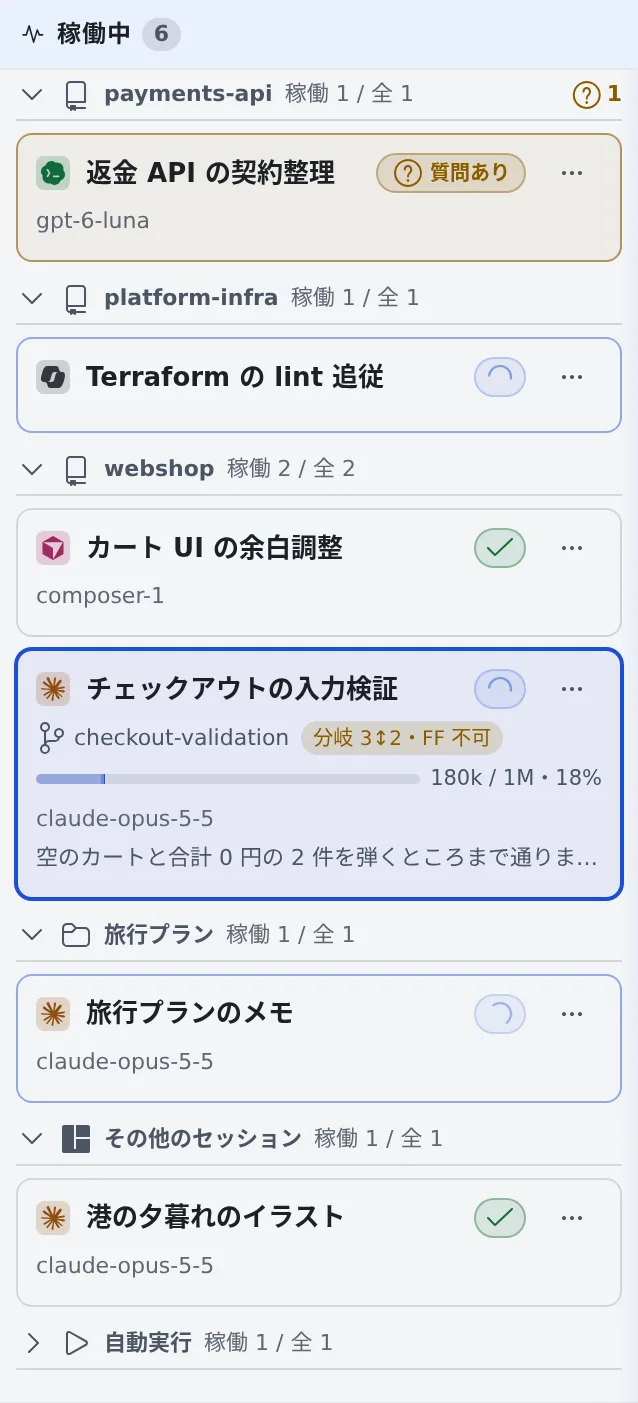
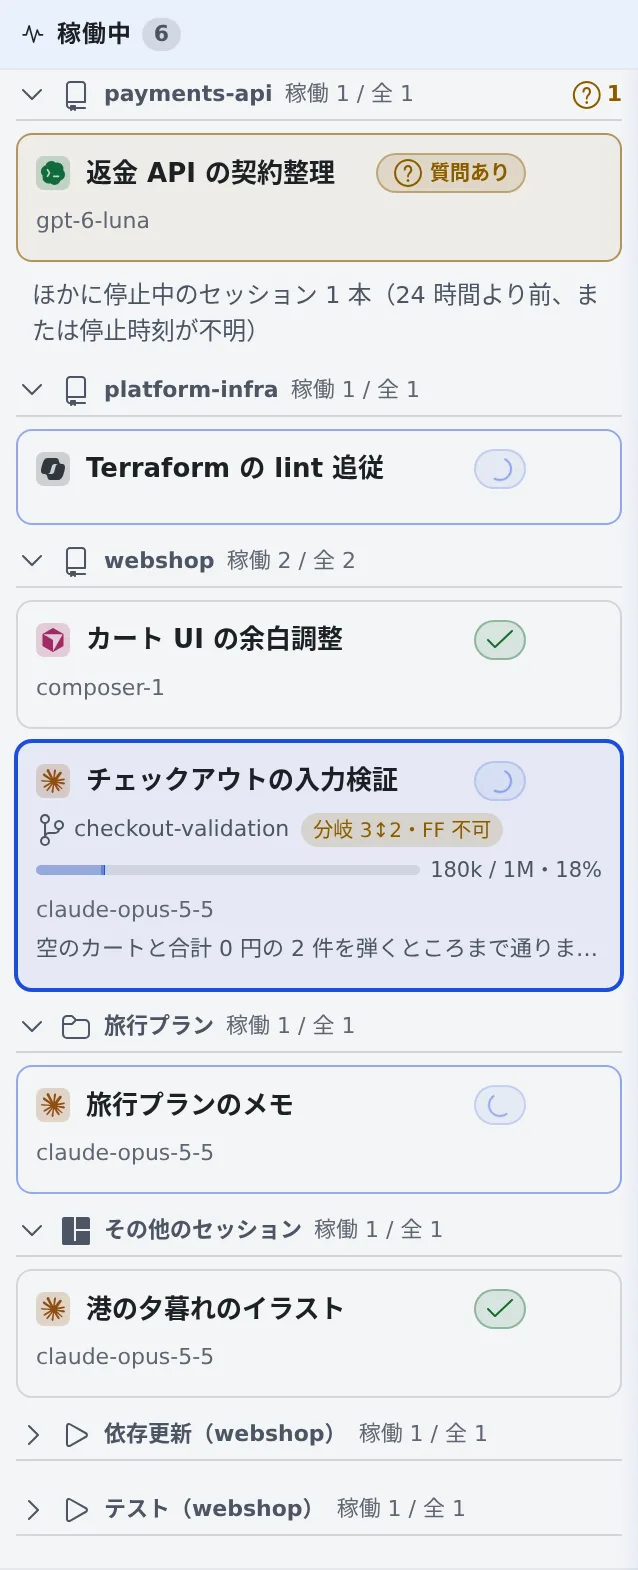
feat(console): group Active sessions by auto-run queue
Active grouped every unattended memo run under one heading, hiding
which category owned each run. Resolve the queue root through the
existing unattended lineage, key each group by category ID, and read
names and positions from the shared queue settings. Keep the generic
heading for legacy runs and preserve independent group folds.

Verified with Active node and DOM tests, a root-attribution mutation,
the queue settings API test, wire goldens, a production Console build,
and English and Japanese guide captures in headless Chromium.

Refs #5286

diff --git a/console/src/features/active/active.ts b/console/src/features/active/active.ts
@@ -11,9 +11,8 @@
 //            SSM logins are the Terminal view's; unattended runs are listed in the trailing groups
 //            (unattendedScope).
 //   GROUP  … the tree's three sections in the tree's order: repositories (by remote, as the
-//            sessions overview groups them), spaces, other. Two groups follow them: the RUNNING
-//            unattended runs, one group for auto-run and one for schedules, as families like the
-//            others (decision 2 note). They are not in the scope above: see unattendedScope.
+//            sessions overview groups them), spaces, other. Running unattended families follow,
+//            by queue category for auto-run and in one group for schedules (unattendedScope).
 //   FOLD   … a parent hides its descendants until the member opens it. The stored value is
 //            the OPENED parents, not the folded ones: a parent that gains its first child
 //            must start folded without anybody having recorded it.
@@ -21,17 +20,18 @@ import { childrenIndex, descendantNames } from "../sessions/family.ts";
 import { isWaiting } from "../sessions/waiting.ts";
 import { foldFamilies, orderByFamily, repoGroupId } from "../overview/overview.ts";
 import type { FoldInfo } from "../overview/overview.ts";
-import { sessionAutoKind, sessionFolder, sessionSpace, withoutTerminals, withoutUnattended } from "../../lib/project.ts";
+import { sessionAutoKind, sessionAutoRoot, sessionFolder, sessionSpace, withoutTerminals, withoutUnattended } from "../../lib/project.ts";
 import { sessionInWorkingSet } from "../../lib/workingSets.ts";
 import { compareText } from "../../lib/intl.ts";
 import type { Space } from "../spaces/store.ts";
 import type { Repo } from "../repos/store.ts";
 import type { WorkingSet } from "../../lib/workingSets.ts";
+import type { MemoQueue } from "../../types/memo.ts";
 import type { Session } from "../../types/session.ts";
 
 export type ActiveGroupKind = "repo" | "space" | "other" | "autorun" | "schedule";
 
-/** The two groups of unattended runs: folded until the member opens them, and their waiting
+/** The groups of unattended runs: folded until the member opens them, and their waiting
  *  sessions are not counted on the rail icon (waitingSessions leaves unattended runs out). */
 export const isUnattendedKind = (k: ActiveGroupKind): boolean => k === "autorun" || k === "schedule";
 
@@ -43,9 +43,9 @@ export interface ActiveGroup {
   /** Identity and React key. Never empty: "o:" is the trailing "other" group. */
   key: string;
   kind: ActiveGroupKind;
-  /** Heading text. "" for the "other" group and the two unattended ones — the view localizes those. */
+  /** Heading text or queue name. Empty when the view supplies the whole heading. */
   label: string;
-  /** Tooltip: what the group was formed on (the remote, the base folder, the space folder). */
+  /** Tooltip context for an ordinary group, or the repository name for a queue heading. */
   hint: string;
   /** Cards in order, after the fold has taken its rows out. */
   sessions: Session[];
@@ -234,6 +234,8 @@ function groupId(s: Session, byFolder: Map<string, Repo>, spaces: Space[], repos
   return { key: OTHER_GROUP, kind: "other", label: "", hint: "" };
 }
 
+type QueueHeading = Pick<MemoQueue, "categoryId" | "category" | "repo" | "categoryPosition">;
+
 const KIND_ORDER: Record<ActiveGroupKind, number> = { repo: 0, space: 1, other: 2, autorun: 3, schedule: 4 };
 
 /** The view, grouped. `expanded` holds the parents the member opened; set=null means no
@@ -247,6 +249,7 @@ export function activeGroups(
   shown?: ReadonlySet<string>,
   reposKnown = repos.length > 0,
   now: number = Date.now(),
+  queues: readonly QueueHeading[] = [],
 ): ActiveGroup[] {
   const byFolder = new Map(repos.map((r) => [r.name, r]));
   const members = new Map<string, { id: GroupId; sessions: Session[] }>();
@@ -257,10 +260,19 @@ export function activeGroups(
     members.set(id.key, g);
   }
   const allByName = new Map(sessions.map((s) => [s.name, s] as const));
+  const queueOrder = new Map([...queues].sort((a, b) =>
+    compareText(a.repo, b.repo) ||
+    (a.categoryPosition ?? Infinity) - (b.categoryPosition ?? Infinity) ||
+    compareText(a.categoryId, b.categoryId),
+  ).map((q, i) => [AUTORUN_GROUP + ":" + q.categoryId, { q, i }]));
   for (const s of unattendedScope(sessions, set, shown, repos)) {
-    const auto = sessionAutoKind(s, allByName, shown);
-    if (!auto) continue;
-    const id: GroupId = { key: auto === "autorun" ? AUTORUN_GROUP : SCHEDULE_GROUP, kind: auto === "autorun" ? "autorun" : "schedule", label: "", hint: "" };
+    const root = sessionAutoRoot(s, allByName, shown);
+    if (!root) continue;
+    const autorun = root.origin === "queue";
+    const category = autorun ? root.queueCategoryId : undefined;
+    const key = autorun ? (category ? AUTORUN_GROUP + ":" + category : AUTORUN_GROUP) : SCHEDULE_GROUP;
+    const q = queueOrder.get(key)?.q;
+    const id: GroupId = { key, kind: autorun ? "autorun" : "schedule", label: q?.category || category || "", hint: q?.repo || "" };
     const g = members.get(id.key) || { id, sessions: [] };
     g.sessions.push(s);
     members.set(id.key, g);
@@ -318,6 +330,8 @@ export function activeGroups(
   }
   // Headings in name order inside each kind, stable while sessions come and go: a list that
   // is watched must not reorder its sections every time something starts.
-  out.sort((a, b) => KIND_ORDER[a.kind] - KIND_ORDER[b.kind] || compareText(a.label, b.label) || compareText(a.key, b.key));
+  out.sort((a, b) => KIND_ORDER[a.kind] - KIND_ORDER[b.kind] ||
+    (queueOrder.get(a.key)?.i ?? Infinity) - (queueOrder.get(b.key)?.i ?? Infinity) ||
+    compareText(a.label, b.label) || compareText(a.key, b.key));
   return out;
 }

diff --git a/console/src/features/active/ActiveSection.tsx b/console/src/features/active/ActiveSection.tsx
@@ -22,6 +22,8 @@ import { useSessionActions } from "../sessions/useSessionActions.tsx";
 import { useNotificationStore } from "../notifications/store.ts";
 import { waitingAtFromNotifications } from "../sessions/order.ts";
 import { observedWaitingAt } from "../sessions/waiting.ts";
+import { useTenantStore } from "../../core/store/tenant.ts";
+import { useQueueSettings } from "../memo/queueSettingsCache.ts";
 import { useShownSchedules } from "../schedules/store.ts";
 import { spacesFor, spacesOwner, useSpacesStore } from "../spaces/store.ts";
 import { SessionCard } from "../overview/SessionCard.tsx";
@@ -68,6 +70,9 @@ export const ActiveSection = memo(function ActiveSection() {
   const spaces = useSpacesStore((s) => spacesFor(s, owner));
   const wset = useActiveWorkingSet();
   const shownSchedules = useShownSchedules();
+  const tenant = useTenantStore((s) => s.tenant);
+  const identity = useTenantStore((s) => s.identityRev);
+  const { queues } = useQueueSettings((tenant ?? "") + "\u0000" + identity);
   // Derived from the layout here rather than through useRepoRailContext, which also reads
   // the connections and the launch catalogue: a card launches nothing.
   const running = useWorkspaceStore((s) => s.state) === "running";
@@ -80,18 +85,24 @@ export const ActiveSection = memo(function ActiveSection() {
   const [openedGroups, toggleOpened] = useActiveOpenedGroups();
   const foldedSet = useMemo(() => new Set(foldedGroups), [foldedGroups]);
   const openedSet = useMemo(() => new Set(openedGroups), [openedGroups]);
-  // Ordinary groups start open and store the folded ones; the unattended two start folded and store the opened ones.
+  // Ordinary groups start open and store the folded ones; unattended groups start folded and store the opened ones.
   const isFolded = (g: ActiveGroup) => (isUnattendedKind(g.kind) ? !openedSet.has(g.key) : foldedSet.has(g.key));
-  const groupName = (g: ActiveGroup) => (g.kind === "other" ? tr("pj.other_sessions") : g.kind === "autorun" ? tr("memo.autorun") : g.kind === "schedule" ? tr("sched.title") : g.label);
+  const groupName = (g: ActiveGroup) => {
+    if (g.kind === "other") return tr("pj.other_sessions");
+    if (g.kind === "schedule") return tr("sched.title");
+    if (g.kind !== "autorun") return g.label;
+    if (g.hint) return tr("active.queue_group", { category: g.label, repo: g.hint });
+    return g.label || tr("memo.autorun");
+  };
   // Headings are sorted with the locale's collation, so the order is the locale's too.
   const locale = useLocale();
 
   const now = useNow(60_000);
   const expandedSet = useMemo(() => new Set(expanded), [expanded]);
   const groups = useMemo(
-    () => activeGroups(sessions, repos, spaces, wset, expandedSet, shownSchedules, reposLoaded, now),
+    () => activeGroups(sessions, repos, spaces, wset, expandedSet, shownSchedules, reposLoaded, now, queues),
     // `locale` is not named in the body: compareText reads it.
-    [sessions, repos, spaces, wset, expandedSet, shownSchedules, reposLoaded, now, locale],
+    [sessions, repos, spaces, wset, expandedSet, shownSchedules, reposLoaded, now, queues, locale],
   );
   // The unattended groups are left out of the section's count: it says how many sessions of
   // the member's own are running, and a queue's runs would bury it.
@@ -110,7 +121,7 @@ export const ActiveSection = memo(function ActiveSection() {
         <div className="act-list">
           {groups.map((g) => (
             <section className="act-group" key={g.key} data-active-group={g.key}>
-              <h3 className="ovw-gtitle act-gtitle" title={g.hint || undefined}>
+              <h3 className="ovw-gtitle act-gtitle" title={(g.kind === "autorun" ? groupName(g) : g.hint) || undefined}>
                 {/* The heading is a disclosure button: Enter / Space fold it, and a screen reader says which way it is. */}
                 <button type="button" className="act-gfold" aria-expanded={!isFolded(g)}
                   aria-label={[groupName(g), tr("ovw.group_count", { alive: g.alive, n: g.total }), g.waiting > 0 ? tCount("active.group_waiting_hint", g.waiting) : ""].filter(Boolean).join(", ")}

diff --git a/console/src/features/active/ActiveSection.dom.test.tsx b/console/src/features/active/ActiveSection.dom.test.tsx
@@ -27,6 +27,8 @@ const { ACTIVE_EXPANDED_KEY, ACTIVE_EXPANDED_MAX, ACTIVE_GROUPS_FOLDED_KEY, ACTI
 const { readFoldValue, setFoldScope, writeFoldValue } = await import("../../lib/foldStore.ts");
 const { useLayoutStore } = await import("../../layout/store.ts");
 const { waitingSessions, sessionBadges } = await import("../../app/activity/badges.ts");
+const { queueScope, useQueueSettingsCache } = await import("../memo/queueSettingsCache.ts");
+const { readMemoQueues } = await import("../memo/queues.ts");
 const { useSchedulesStore } = await import("../schedules/store.ts");
 const { ToastProvider } = await import("../../ui/ToastProvider.tsx");
 const { ConfirmProvider } = await import("../../ui/ConfirmProvider.tsx");
@@ -64,6 +66,7 @@ const cards = () => [...host.querySelectorAll<HTMLElement>(".ovw-card")].map((e)
 
 beforeEach(() => {
   localStorage.clear();
+  useQueueSettingsCache.getState().reset();
   api.mockClear();
   setSettings({ workingSets: [], workingSetActive: "" });
   // The default state is unsettled ("…"): each test says what it needs.
@@ -324,6 +327,31 @@ describe("ActiveSection", () => {
       expect(headBtn("u:autorun").getAttribute("aria-expanded")).toBe("false");
       await act(async () => setFoldScope({ tenant: "t1" }));
       expect(headBtn("u:autorun").getAttribute("aria-expanded")).toBe("true");
+    });
+
+    it("labels each queue and remembers its fold independently as metadata loads", async () => {
+      const runs = [
+        sess("run-a", { origin: "queue", queueCategoryId: "a" }),
+        sess("review-a", { origin: "session", originSession: "run-a" }),
+        sess("run-b", { origin: "queue", queueCategoryId: "b" }),
+      ];
+      await render(runs);
+      expect(headBtn("u:autorun:a").getAttribute("aria-expanded")).toBe("false");
+      expect(headBtn("u:autorun:b").getAttribute("aria-expanded")).toBe("false");
+      await act(async () => headBtn("u:autorun:a").click());
+      const cache = useQueueSettingsCache.getState();
+      await act(async () => cache.publish(queueScope(), cache.begin(), readMemoQueues({
+        queues: [
+          { categoryId: "a", category: "Reviews", repo: "app", categoryPosition: 2 },
+          { categoryId: "b", category: "Builds", repo: "app", categoryPosition: 1 },
+        ],
+      })!));
+      expect(heads()).toEqual(["Builds (app)", "Reviews (app)"]);
+      expect(headBtn("u:autorun:a").getAttribute("aria-label")).toBe("Reviews (app), 2 running / 2 total");
+      expect(headBtn("u:autorun:a").getAttribute("aria-expanded")).toBe("true");
+      expect(headBtn("u:autorun:b").getAttribute("aria-expanded")).toBe("false");
+      expect(cards()).toEqual(["run-a"]);
+      expect(JSON.parse(readFoldValue(ACTIVE_GROUPS_OPENED_KEY) || "[]")).toEqual(["u:autorun:a"]);
     });
 
     it("Schedules folds, opens and is stored like Auto-run, and a shown schedule worktree child is listed once", async () => {

diff --git a/console/src/lib/project.ts b/console/src/lib/project.ts
@@ -392,33 +392,37 @@ export function lineageNodes(n: RepoTreeNode): RepoTreeNode[] {
   return n.detached && n.detached.length > 0 ? [...childNodes(n), ...n.detached] : childNodes(n);
 }
 
-// sessionAutoKind — which unattended source raised a session, "" = the member's own.
+// sessionAutoRoot — the unattended run that raised a session, if any.
 //
 // origin queue / schedule is the run itself. A child the run spawned (origin "session")
 // follows ONLY origin=session edges up to the first session that is not one: a handoff
 // the member launched from a run keeps origin=user while carrying originSession, so it
 // ends the walk as "the member's" and everything it spawns stays visible. A missing
-// parent or a cycle answers "" (ordinary display), never a guess.
+// parent or a cycle also keeps the session in ordinary display.
 //
 // `shown` holds the ids of schedules the member set to also show in the Sessions view: a session
-// that run's root started and that has its own worktree is then the member's own (""). The root
+// that run's root started and that has its own worktree is then the member's own. The root
 // itself and a child without a worktree stay the Schedules view's; a root with no id, or whose
 // schedule is not in `shown` (gone, not loaded), keeps the default.
-export function sessionAutoKind(s: Session | undefined, byName: Map<string, Session>, shown?: ReadonlySet<string>): AutoKind | "" {
+export function sessionAutoRoot(s: Session | undefined, byName: Map<string, Session>, shown?: ReadonlySet<string>): Session | undefined {
   const seen = new Set<string>();
   let cur = s;
   while (cur) {
-    if (seen.has(cur.name)) return "";
+    if (seen.has(cur.name)) return undefined;
     seen.add(cur.name);
-    if (cur.origin === "queue") return "autorun";
+    if (cur.origin === "queue") return cur;
     if (cur.origin === "schedule") {
-      if (shown && cur !== s && s?.worktree === true && !!cur.scheduleId && shown.has(cur.scheduleId)) return "";
-      return "schedule";
+      if (shown && cur !== s && s?.worktree === true && !!cur.scheduleId && shown.has(cur.scheduleId)) return undefined;
+      return cur;
     }
-    if (cur.origin !== "session") return "";
+    if (cur.origin !== "session") return undefined;
     cur = cur.originSession ? byName.get(cur.originSession) : undefined;
   }
-  return "";
+}
+
+export function sessionAutoKind(s: Session | undefined, byName: Map<string, Session>, shown?: ReadonlySet<string>): AutoKind | "" {
+  const root = sessionAutoRoot(s, byName, shown);
+  return root ? (root.origin === "queue" ? "autorun" : "schedule") : "";
 }
 
 /** Sessions the member's own views list: everything except an unattended run and the sessions it

diff --git a/console/src/features/active/active.test.ts b/console/src/features/active/active.test.ts
@@ -297,6 +297,30 @@ describe("unattended groups", () => {
     expect(g[1].alive).toBe(1);
   });
 
+  it("groups by root category and orders headings by category position", () => {
+    const queued = [
+      ...list,
+      s("first", { origin: "queue", queueCategoryId: "first", alive: false }),
+      s("helper", { origin: "session", originSession: "first", queueCategoryId: "second" }),
+      s("reviewer", { origin: "session", originSession: "helper", alive: false }),
+      s("second", { origin: "queue", queueCategoryId: "second" }),
+      s("unknown", { origin: "queue", queueCategoryId: "deleted" }),
+    ];
+    const queues = [
+      { categoryId: "second", category: "Alpha", repo: "app", categoryPosition: 2 },
+      { categoryId: "first", category: "Zulu", repo: "app", categoryPosition: 1 },
+    ];
+    const g = activeGroups(queued, repos, [], null, new Set(["helper"]), undefined, true, 0, queues);
+    expect(g.map((x) => x.key).slice(1)).toEqual([
+      "u:autorun:first", "u:autorun:second", "u:autorun", "u:autorun:deleted", "u:schedule",
+    ]);
+    expect(g[1]).toMatchObject({ label: "Zulu", hint: "app", total: 2, alive: 1 });
+    expect(names(g[1].sessions)).toEqual(["helper", "reviewer"]);
+    expect(names(g[2].sessions)).toEqual(["second"]);
+    expect(names(g[3].sessions)).toEqual(["run"]);
+    expect(names(g[4].sessions)).toEqual(["unknown"]);
+  });
+
   it("does not list a schedule's worktree child twice when its schedule shows in Sessions", () => {
     const shown = new Set(["sc1"]);
     const g = activeGroups(list, repos, [], null, new Set(), shown);

diff --git a/console/src/lib/i18n/locales/ja/common.ts b/console/src/lib/i18n/locales/ja/common.ts
@@ -382,6 +382,7 @@ export const common = {
   "active.empty_in_set": "作業グループ「{set}」に稼働中のセッションはありません。",
   "active.hidden_waiting_hint_one": "畳んだ子セッションのうち {count} 本があなたの回答を待っています",
   "active.hidden_waiting_hint_other": "畳んだ子セッションのうち {count} 本があなたの回答を待っています",
+  "active.queue_group": "{category}（{repo}）",
   "active.group_waiting_hint_one": "このグループの {count} 本があなたの回答を待っています",
   "active.group_waiting_hint_other": "このグループの {count} 本があなたの回答を待っています",
   "active.older_stopped_one": "ほかに停止中のセッション {count} 本（24 時間より前、または停止時刻が不明）",

diff --git a/console/src/lib/i18n/locales/en/common.ts b/console/src/lib/i18n/locales/en/common.ts
@@ -380,6 +380,7 @@ export const common: Record<keyof typeof jaCommon, string> = {
   "active.empty_in_set": "Nothing is running in the working set \"{set}\".",
   "active.hidden_waiting_hint_one": "{count} folded child session is waiting for your answer",
   "active.hidden_waiting_hint_other": "{count} folded child sessions are waiting for your answer",
+  "active.queue_group": "{category} ({repo})",
   "active.group_waiting_hint_one": "{count} session in this group is waiting for your answer",
   "active.group_waiting_hint_other": "{count} sessions in this group are waiting for your answer",
   "active.older_stopped_one": "{count} more stopped session not shown (older than 24 hours, or no stop time)",

diff --git a/console/src/features/memo/queues.ts b/console/src/features/memo/queues.ts
@@ -116,6 +116,7 @@ export function readQueue(v: unknown): MemoQueue | null {
     categoryId: v.categoryId,
     repo: str(v.repo),
     category: str(v.category),
+    categoryPosition: typeof v.categoryPosition === "number" && Number.isFinite(v.categoryPosition) ? v.categoryPosition : undefined,
     instruction: str(v.instruction),
     agentKind: str(v.agentKind),
     model: str(v.model),

diff --git a/console/src/types/memo.ts b/console/src/types/memo.ts
@@ -189,6 +189,7 @@ export interface MemoQueue {
   categoryId: string;
   repo: string;
   category: string;
+  categoryPosition?: number;
   instruction: string;
   agentKind: string;
   model: string;

diff --git a/control-plane/memo_queue.go b/control-plane/memo_queue.go
@@ -360,16 +360,17 @@ func clipProducer(s string) string {
 // memoQueueDTO is a queue's settings on the wire. Repo and category name the category row it
 // belongs to, for display.
 type memoQueueDTO struct {
-	CategoryID  string  `json:"categoryId"`
-	Repo        string  `json:"repo"`
-	Category    string  `json:"category"`
-	Instruction string  `json:"instruction"`
-	AgentKind   string  `json:"agentKind"`
-	Model       string  `json:"model"`
-	Effort      string  `json:"effort"`
-	Route       string  `json:"route"`
-	SpendCapUSD float64 `json:"spendCapUsd"`
-	Worktree    bool    `json:"worktree"`
+	CategoryID       string  `json:"categoryId"`
+	Repo             string  `json:"repo"`
+	Category         string  `json:"category"`
+	CategoryPosition int     `json:"categoryPosition"`
+	Instruction      string  `json:"instruction"`
+	AgentKind        string  `json:"agentKind"`
+	Model            string  `json:"model"`
+	Effort           string  `json:"effort"`
+	Route            string  `json:"route"`
+	SpendCapUSD      float64 `json:"spendCapUsd"`
+	Worktree         bool    `json:"worktree"`
 	// AcceptOwnSessions is the switch "accept from sessions I started": a message from a session
 	// the member started enters without a release. Off by default.
 	AcceptOwnSessions bool `json:"acceptOwnSessions"`
@@ -421,7 +422,7 @@ type memoQueueDTO struct {
 }
 
 func memoQueueToDTO(q store.MemoQueue, c store.MemoCategory) memoQueueDTO {
-	return memoQueueDTO{CategoryID: q.CategoryID, Repo: c.Repo, Category: c.Name, Instruction: q.Instruction,
+	return memoQueueDTO{CategoryID: q.CategoryID, Repo: c.Repo, Category: c.Name, CategoryPosition: c.Position, Instruction: q.Instruction,
 		AgentKind: q.AgentKind, Model: q.Model, Effort: q.Effort, Route: q.Route, SpendCapUSD: q.SpendCapUSD,
 		Worktree: q.Worktree, AcceptOwnSessions: q.AcceptOwnSessions, ContinuationMax: memoContinuationMax(q), MaxActive: q.MaxActive, Batch: q.Batch, MaxTaskHours: memoQueueTaskHours(q),
 		OpenCron: q.OpenCron, OpenMinutes: q.OpenMinutes, TZ: q.TZ, OpenAfter: q.OpenAfter, MaxFiresPerDay: memoQueueFiresPerDay(q),

diff --git a/control-plane/memo_queue_test.go b/control-plane/memo_queue_test.go
@@ -304,8 +304,11 @@ func TestMemoQueueSettings(t *testing.T) {
 		if r.Code != 200 || !got.Enabled || got.MaxActive != 6 || got.Batch != 20 || got.Worktree || got.AgentKind != "codex" || got.SpendCapUSD != 5 {
 			t.Fatalf("update: %d %s", r.Code, r.Body.String())
 		}
+		if r := e.do("a", "PATCH", "/api/memo-categories/"+cat, map[string]any{"position": 4}); r.Code != 200 {
+			t.Fatalf("reorder category: %d %s", r.Code, r.Body.String())
+		}
 		list := decode[memoQueuesWire](t, e.do("a", "GET", "/api/memo-queues", nil)).Queues
-		if len(list) != 1 || list[0].CategoryID != cat || !list[0].Enabled {
+		if len(list) != 1 || list[0].CategoryID != cat || list[0].CategoryPosition != 4 || !list[0].Enabled {
 			t.Fatalf("list: %+v", list)
 		}
 		if l := decode[memoQueuesWire](t, e.do("c", "GET", "/api/memo-queues", nil)).Queues; len(l) != 0 {

diff --git a/guide/user/fleet/overview.ja.md b/guide/user/fleet/overview.ja.md
@@ -79,12 +79,12 @@ source_of_truth: "Console のセッション一覧ペイン"
 アクティビティバーの「**稼働中**」は、同じカードを左ペインに並べます。メイン領域のペインは使いません。
 稼働中のセッション、最近止まったセッション、あなたの対応がまだ要るセッションを並べます。
 
-![左ペインの「稼働中」ビュー。payments-api・platform-infra・webshop・スペース「旅行プラン」・「その他のセッション」の見出しの下にカードが並び、いちばん下に畳まれた「自動実行」の見出しがある。カードにはタイトルと状態、開いているセッションにはブランチとコンテキストのゲージが出ている](../../assets/active-view-ja-light.webp)
+![左ペインの「稼働中」ビュー。payments-api・platform-infra・webshop・スペース「旅行プラン」・「その他のセッション」の見出しの下にカードが並び、いちばん下に自動実行キューの見出しが 2 つあり、どちらも畳まれている。カードにはタイトルと状態、開いているセッションにはブランチとコンテキストのゲージが出ている](../../assets/active-view-ja-light.webp)
 
 | 見えるもの | 意味 |
 |---|---|
-| 見出し | リポジトリ、スペース、「その他のセッション」の順で、最後に「**自動実行**」と「**スケジュール**」（下）。並べるセッションがあるあいだだけ出ます。どの見出しも押して畳めて、畳んだ状態はこのブラウザが覚えます。畳んだ見出しには、全体のうち稼働中の本数と、そのうち回答を待っている本数が出ます |
-| 「**自動実行**」「**スケジュール**」 | 稼働中の無人の実行と、それが始めたセッションを、ひとまとまりで並べます。その実行が動いているあいだだけ出て、既定では畳まれています。「**自動実行**」はメモの自動実行、「**スケジュール**」はスケジュールの実行です |
+| 見出し | リポジトリ、スペース、「その他のセッション」の順で、最後に自動実行キューと「**スケジュール**」（下）。並べるセッションがあるあいだだけ出ます。どの見出しも押して畳めて、畳んだ状態はこのブラウザが覚えます。畳んだ見出しには、全体のうち稼働中の本数と、そのうち回答を待っている本数が出ます |
+| 自動実行キューと「**スケジュール**」 | 稼働中の無人の実行と、その子セッションが並びます。メモの自動実行はキューごとに見出しが付き、リポジトリ名（設定されている場合）とカテゴリ名が出ます。同じリポジトリ内ではカテゴリの順に並びます。レビューや補助のセッションも親の実行と同じ見出しに出ます。カテゴリが記録されていない以前の実行は「**自動実行**」、スケジュールの実行は「**スケジュール**」にまとまります。どの見出しも最初は畳まれています |
 | カード | 稼働中のセッション、過去 24 時間以内に止まったセッション、質問・プラン・権限確認への返答や引き継ぎの受け取りを待つ停止中のセッションです。対応待ちのものは止まった時刻にかかわらず並びます。並んだセッションの子も、停止中のものを含めて並びます。親と見出しが同じなら親の下に、別のリポジトリやスペースにあるならそちらの見出しに出ます |
 | 親のカード | 同じ見出しにある子セッションを畳んだ状態で始まります。「＋N」は隠している本数、疑問符の付いた数はそのうち稼働中であなたの回答を待っている本数です。左端の矢印で開閉でき、開いた親はこのブラウザが覚えます |
 | ペイン番号 | 画面を分割しているあいだ、そのセッションを出しているペインの番号。押すとそのペインに移ります |
@@ -93,7 +93,7 @@ source_of_truth: "Console のセッション一覧ペイン"
 - 見出しを開くと、24 時間より前に止まったか、停止時刻が不明でカードに出ていないセッションの数が、カードの下に出ます。それらは「**セッション**」で確認できます
 - カードにはプロジェクト名（見出しにあります）、トークンのグラフ、開始時刻は出ません。メニューは同じです
 - 「**稼働中**」のアイコンの数字は、稼働中であなたの回答を待っているセッションの本数です。質問に答えないまま停止したセッションは数えません。「**自動実行**」と「**スケジュール**」のグループの中で待っているセッションも数えません（「**自動実行**」のアイコンの数字は別で、回答を待っている実行の数です。実行ごとに 1 で、その実行のセッションが何本待っていても 1 と数えます）。このアイコンを出しているあいだ、「**セッション**」のアイコンは同じ数字を出しません。「**稼働中**」のアイコンを非表示にすると、数字は「**セッション**」に戻ります
-- シェルと SSM セッションは「**ターミナル**」に出ます。メモの自動実行とスケジュールの実行は、それぞれ「**自動実行**」「**スケジュール**」のビューに出るほか、動いているあいだはこのビューの末尾の 2 グループにも出ます。例外は「**セッション一覧にも表示**」にしたスケジュールで、その実行が始めた worktree のセッションは通常の見出しの下に 1 回だけ並び、「**スケジュール**」のグループには出ません（「**スケジュール**」ビューには従来どおり出ます）
+- シェルと SSM セッションは「**ターミナル**」に出ます。メモの自動実行とスケジュールの実行は、それぞれ「**自動実行**」「**スケジュール**」のビューに出るほか、動いているあいだはこのビューの末尾にも出ます。例外は「**セッション一覧にも表示**」にしたスケジュールで、その実行が始めた worktree のセッションは通常の見出しの下に 1 回だけ並び、「**スケジュール**」のグループには出ません（「**スケジュール**」ビューには従来どおり出ます）
 - 作業グループは、ほかのビューと同じくこのビューも絞ります
 - ワークスペースが停止しているあいだ、このビューに並ぶものはありません
 
